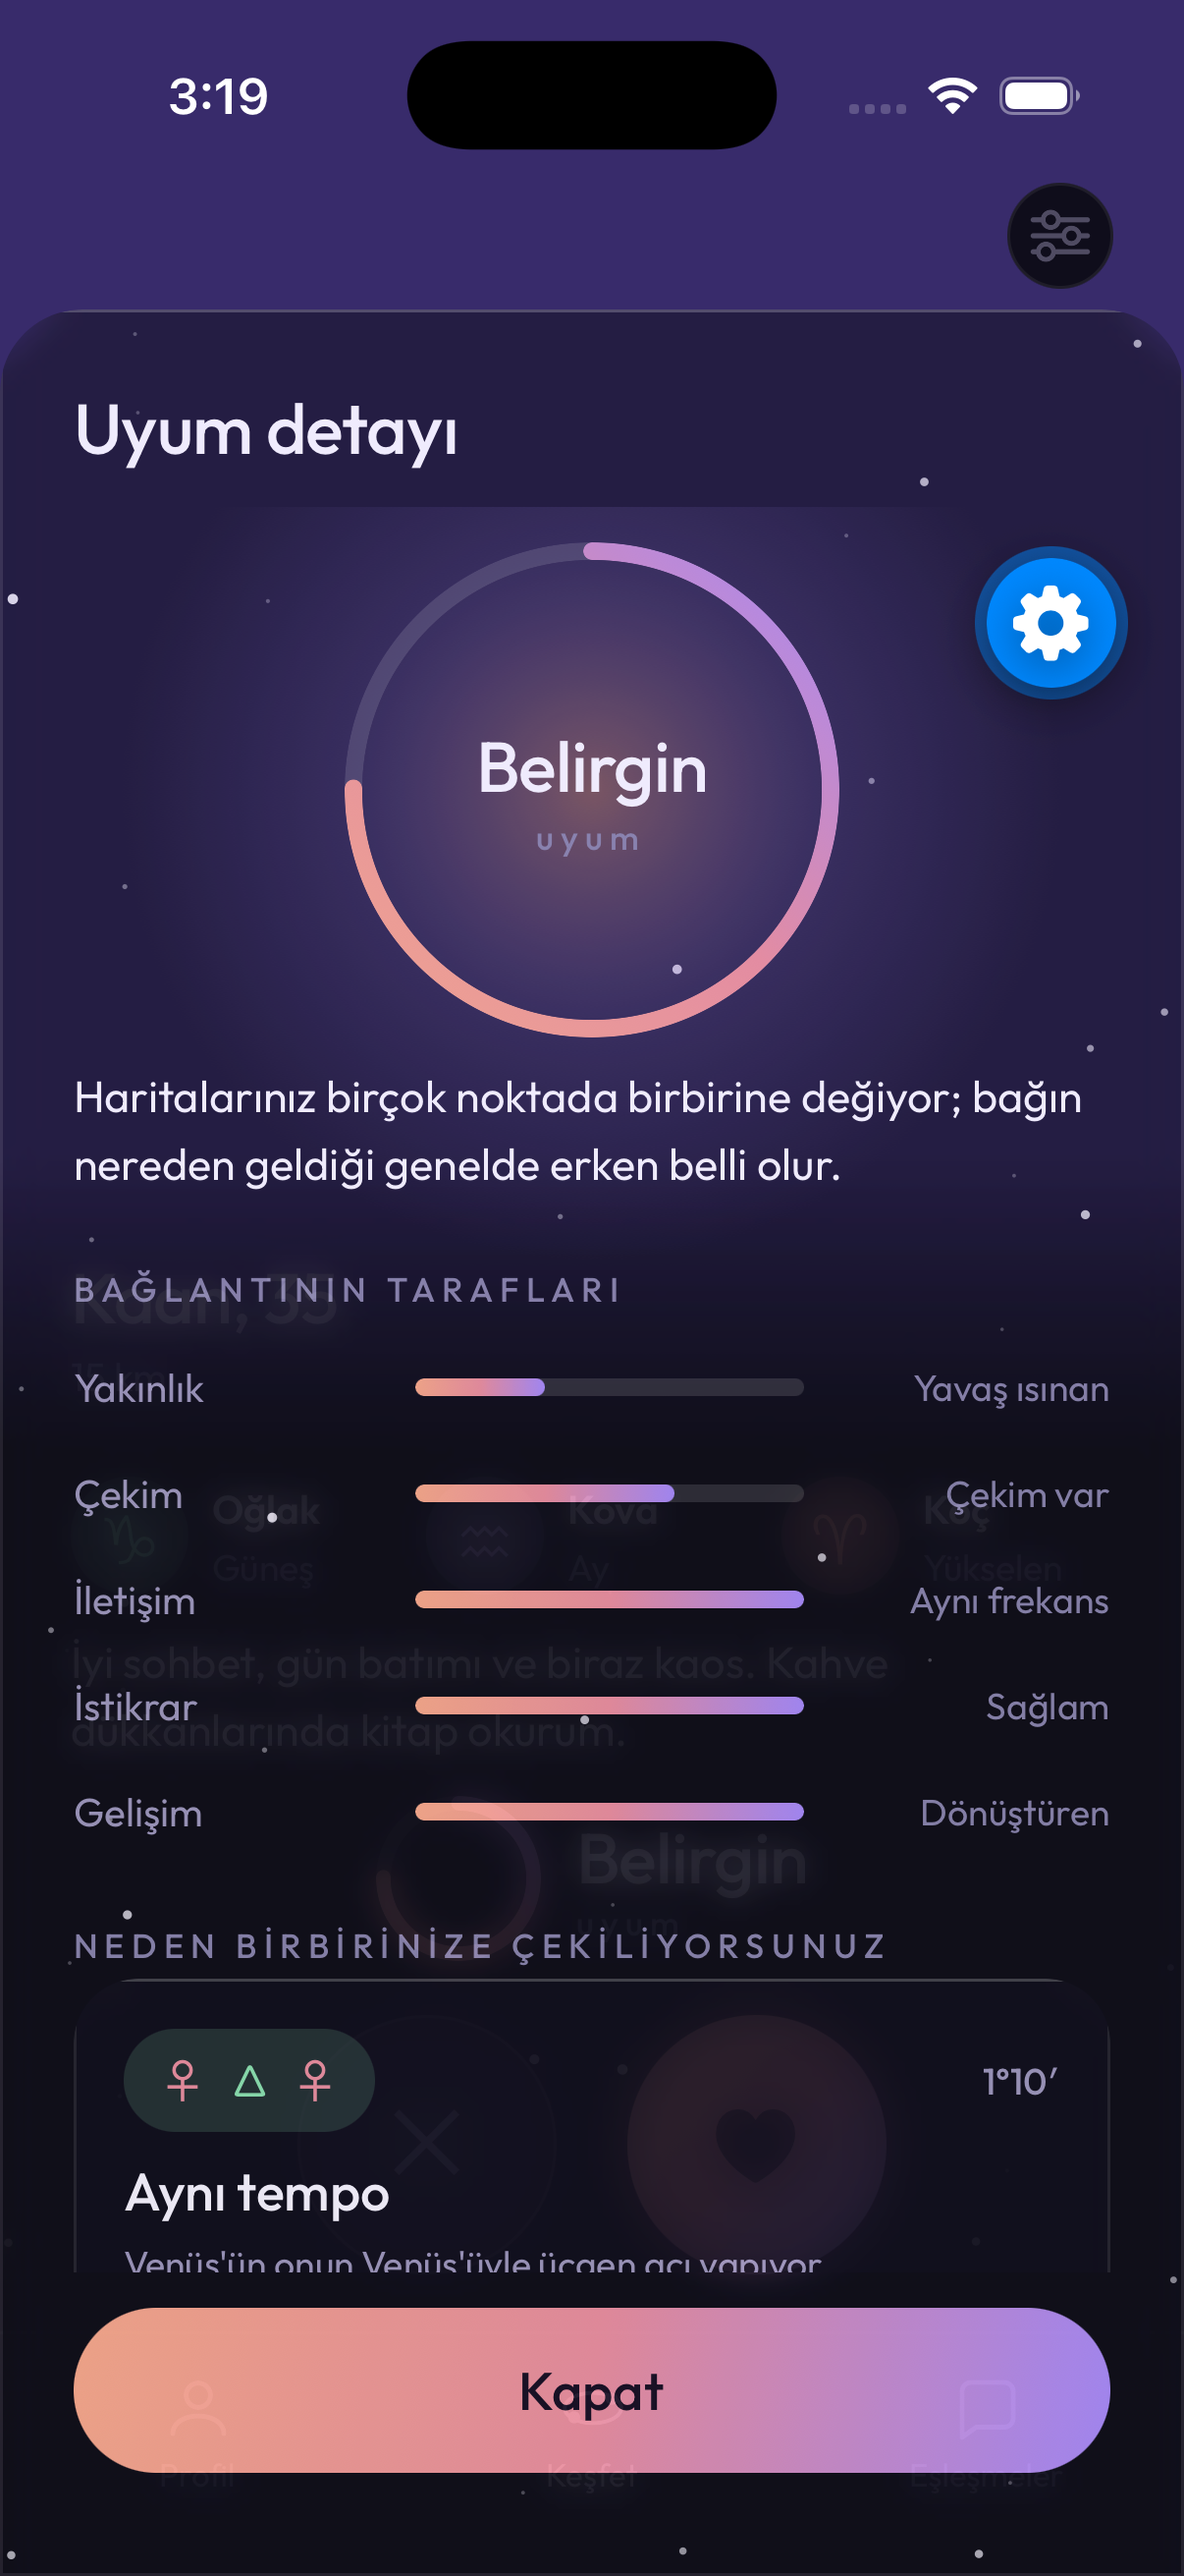
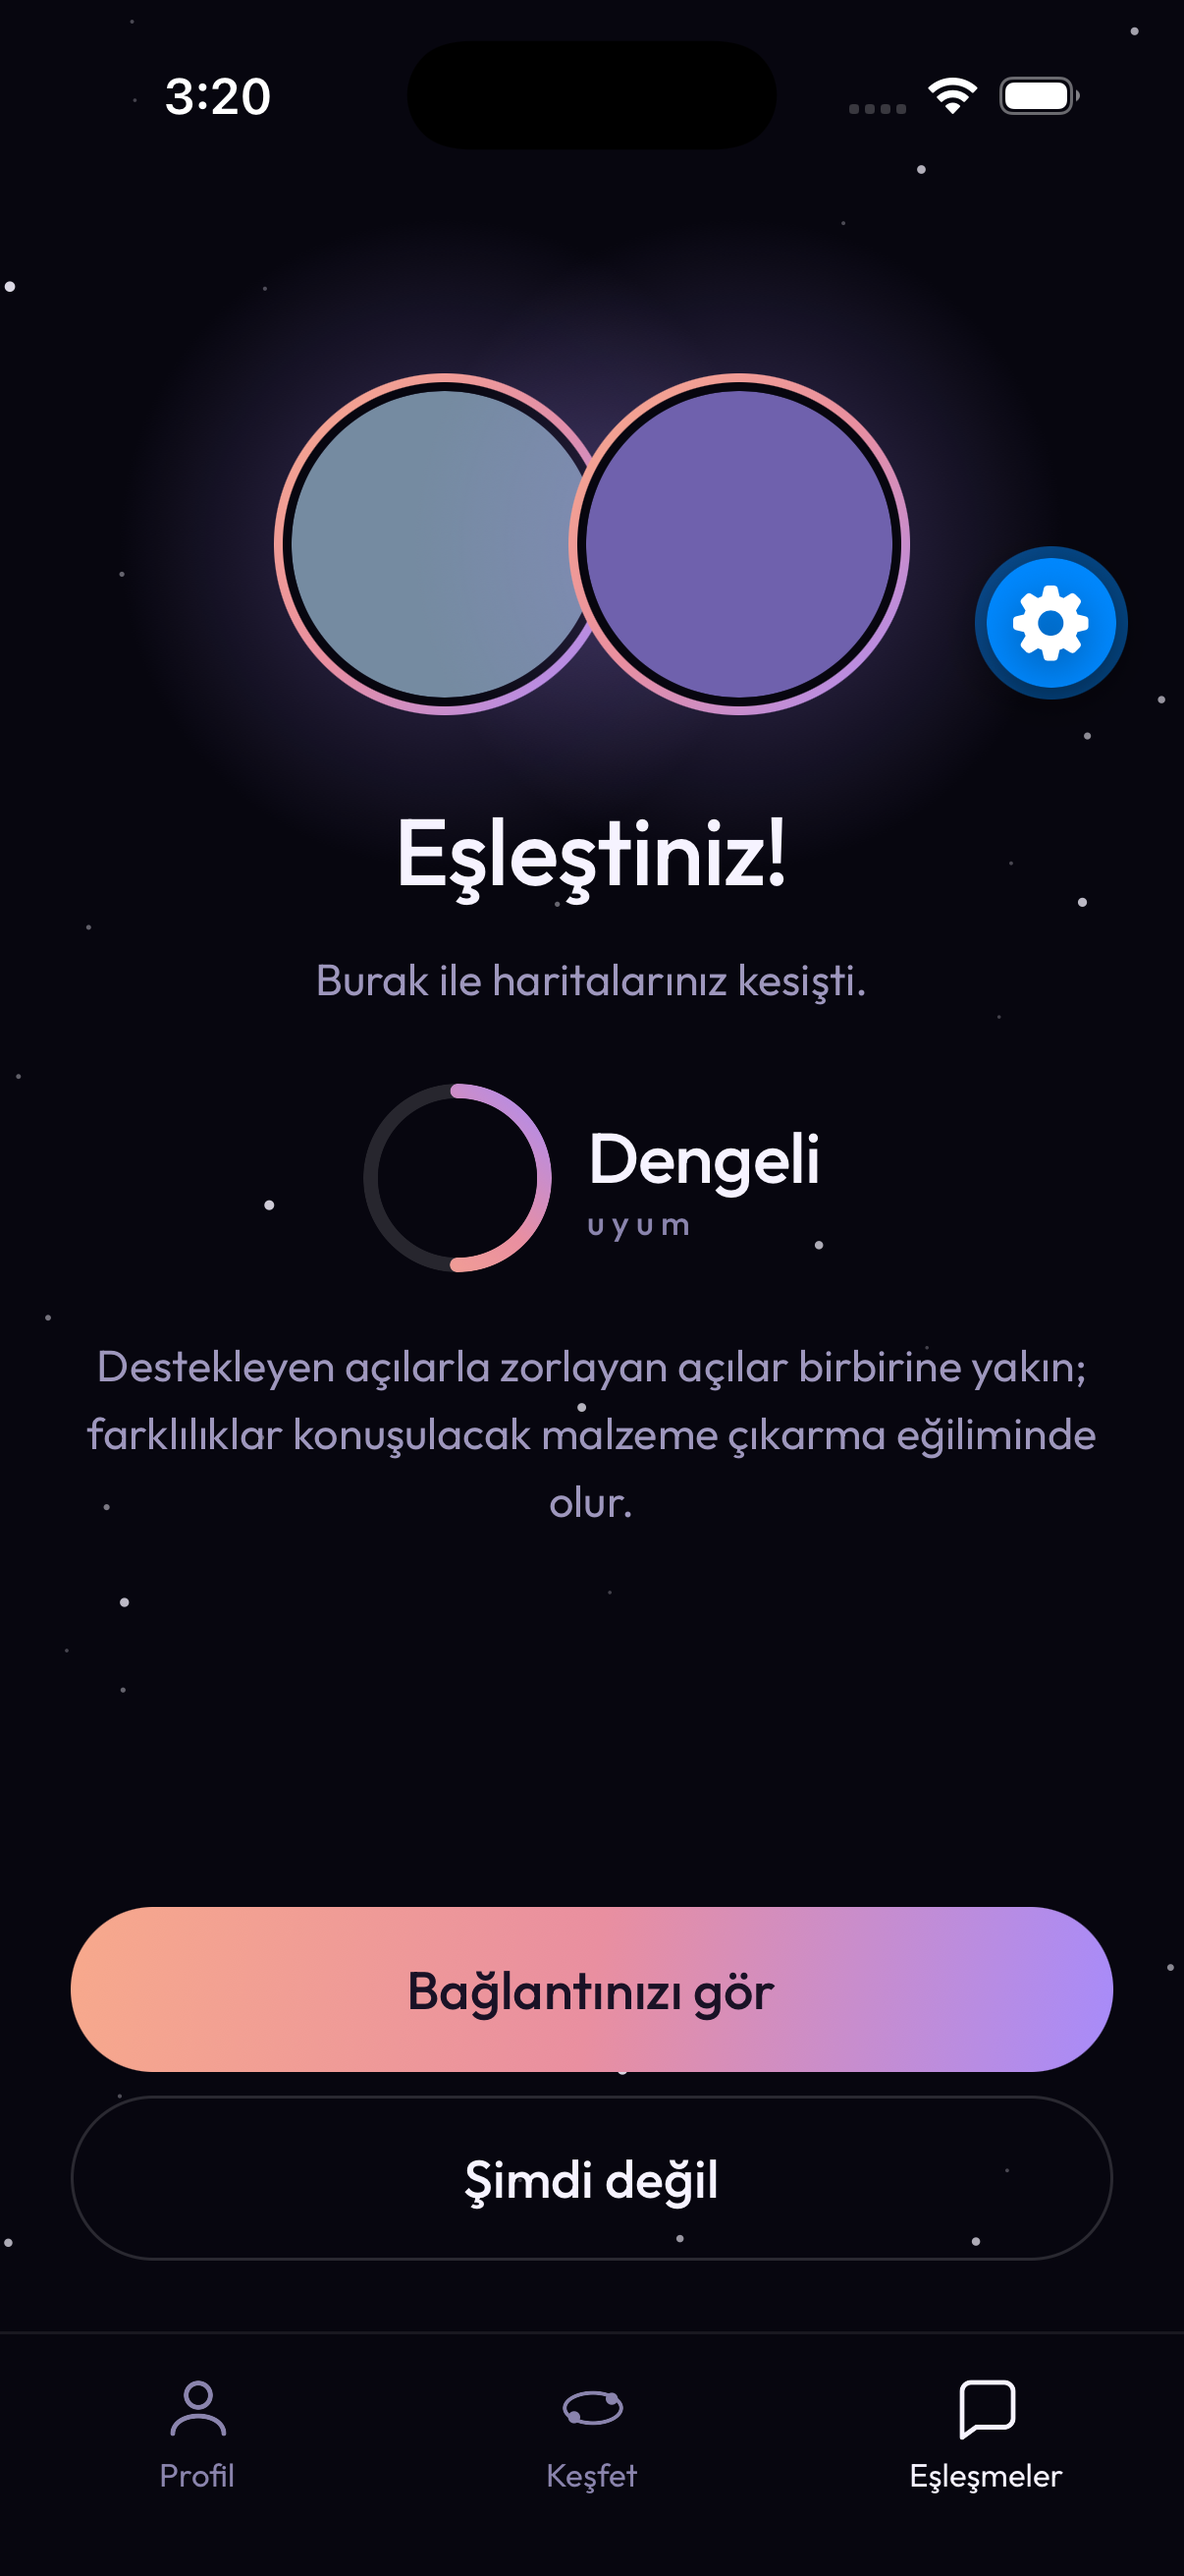
fix(mobile): a sheet's glass is denser than a card's
At the card's alpha the deck's text read straight through the Uyum
sheet; a sheet sits over a page, not the star field.

diff --git a/apps/mobile/components/Popup.tsx b/apps/mobile/components/Popup.tsx
@@ -147,7 +147,7 @@ export function Popup({
               a blur (owner, 2026-09-16), and the stars under the sheet's
               own content are its own. */}
           <BlurView
-            intensity={28}
+            intensity={60}
             tint="dark"
             style={styles.fill}
             pointerEvents="none"
@@ -209,7 +209,7 @@ const styles = StyleSheet.create({
   },
   sheet: {
     maxHeight: '88%',
-    backgroundColor: glass.fill,
+    backgroundColor: glass.sheet,
     borderTopLeftRadius: radius.xl,
     borderTopRightRadius: radius.xl,
     borderWidth: 1,

diff --git a/apps/mobile/theme/tokens.ts b/apps/mobile/theme/tokens.ts
@@ -74,6 +74,12 @@ export const color = {
  */
 export const glass = {
   fill: 'rgba(18,16,31,0.58)',
+  /**
+   * A sheet over a screen: denser than a card, because what is under it
+   * is a page of text and a photo, not the star field — at the card's
+   * alpha the deck read straight through (seen 2026-09-16).
+   */
+  sheet: 'rgba(12,10,22,0.86)',
   fillSoft: 'rgba(23,21,40,0.5)',
   fillHigh: 'rgba(29,27,49,0.62)',
   edge: 'rgba(255,255,255,0.1)',
